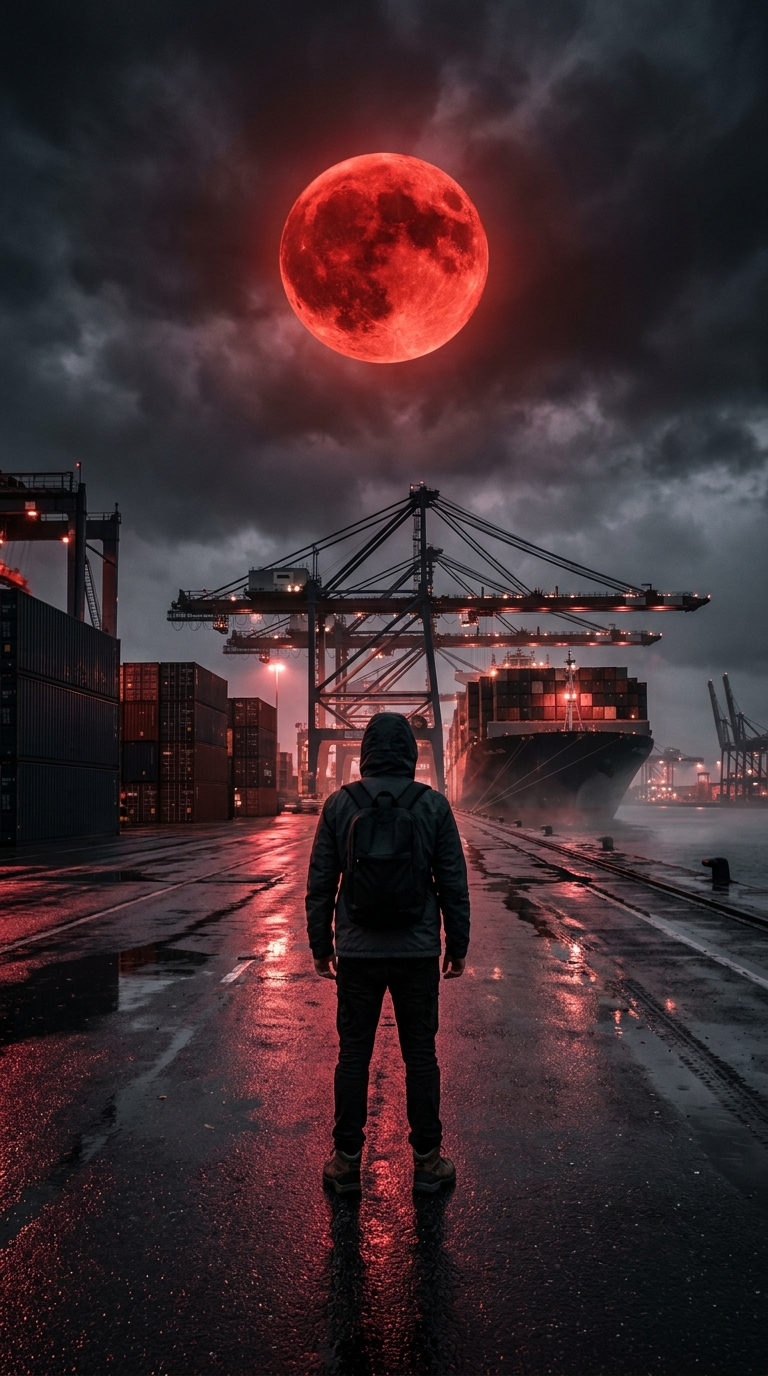
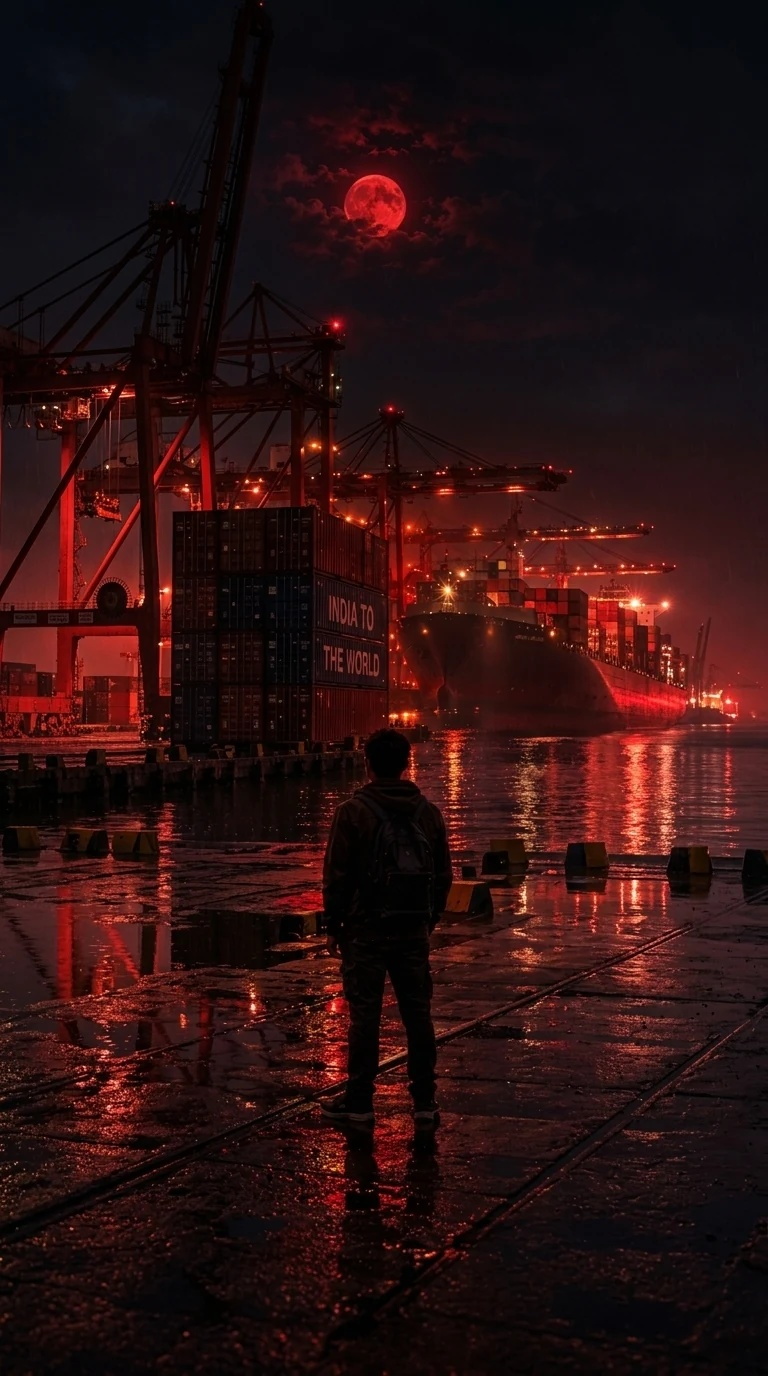
fix(landingpage): boost PC red moon glow & integrate natural cloud background on mobile

diff --git a/src/app/landingpage/page.tsx b/src/app/landingpage/page.tsx
@@ -93,23 +93,30 @@ export default function LandingPage() {
             />
           </picture>
 
-          {/* Natural Atmospheric Cloud Glow around & behind the Blood Moon (Soft, organic, no hard circular ring) */}
-          {/* Mobile Glow: organically scattered through clouds behind the centered moon */}
+          {/* PC VIEW: High-Intensity Glowing Blood Moon (Radiant Core + Cinematic Atmospheric Haze) */}
           <div
-            className="md:hidden absolute top-[4%] left-1/2 -translate-x-1/2 w-[90%] max-w-[420px] h-[260px] pointer-events-none mix-blend-screen opacity-60 blur-[60px]"
+            className="hidden md:block absolute top-[16.5%] left-[39.5%] -translate-x-1/2 -translate-y-1/2 w-80 h-80 rounded-full pointer-events-none mix-blend-screen opacity-95 animate-pulse"
             style={{
               background:
-                "radial-gradient(ellipse 70% 50% at 50% 45%, rgba(255,50,65,0.45) 0%, rgba(229,9,32,0.22) 42%, rgba(180,10,25,0.06) 68%, transparent 85%)",
+                "radial-gradient(circle, rgba(255,40,60,0.85) 0%, rgba(255,20,35,0.5) 40%, rgba(229,9,32,0.2) 65%, transparent 78%)",
+            }}
+            aria-hidden="true"
+          />
+          <div
+            className="hidden md:block absolute top-[16.5%] left-[39.5%] -translate-x-1/2 -translate-y-1/2 w-[720px] h-[520px] pointer-events-none mix-blend-screen opacity-85 blur-[75px]"
+            style={{
+              background:
+                "radial-gradient(ellipse 65% 55% at 50% 50%, rgba(255,30,50,0.6) 0%, rgba(229,9,32,0.3) 45%, rgba(180,0,20,0.1) 70%, transparent 85%)",
             }}
             aria-hidden="true"
           />
 
-          {/* Desktop Glow: diffused atmosphere over cargo cranes and blood moon */}
+          {/* MOBILE VIEW: Soft Natural Cloud Background Glow (Diffused through clouds, zero circular edges) */}
           <div
-            className="hidden md:block absolute top-[2%] left-[40%] -translate-x-1/2 w-[720px] h-[360px] pointer-events-none mix-blend-screen opacity-70 blur-[90px]"
+            className="md:hidden absolute top-[14.5%] left-1/2 -translate-x-1/2 -translate-y-1/2 w-[320px] h-[240px] pointer-events-none mix-blend-screen opacity-40 blur-[55px]"
             style={{
               background:
-                "radial-gradient(ellipse 65% 55% at 50% 45%, rgba(255,45,60,0.42) 0%, rgba(229,9,32,0.2) 42%, rgba(180,10,25,0.05) 68%, transparent 85%)",
+                "radial-gradient(ellipse 65% 50% at 50% 50%, rgba(255,40,55,0.45) 0%, rgba(229,9,32,0.18) 45%, transparent 80%)",
             }}
             aria-hidden="true"
           />
